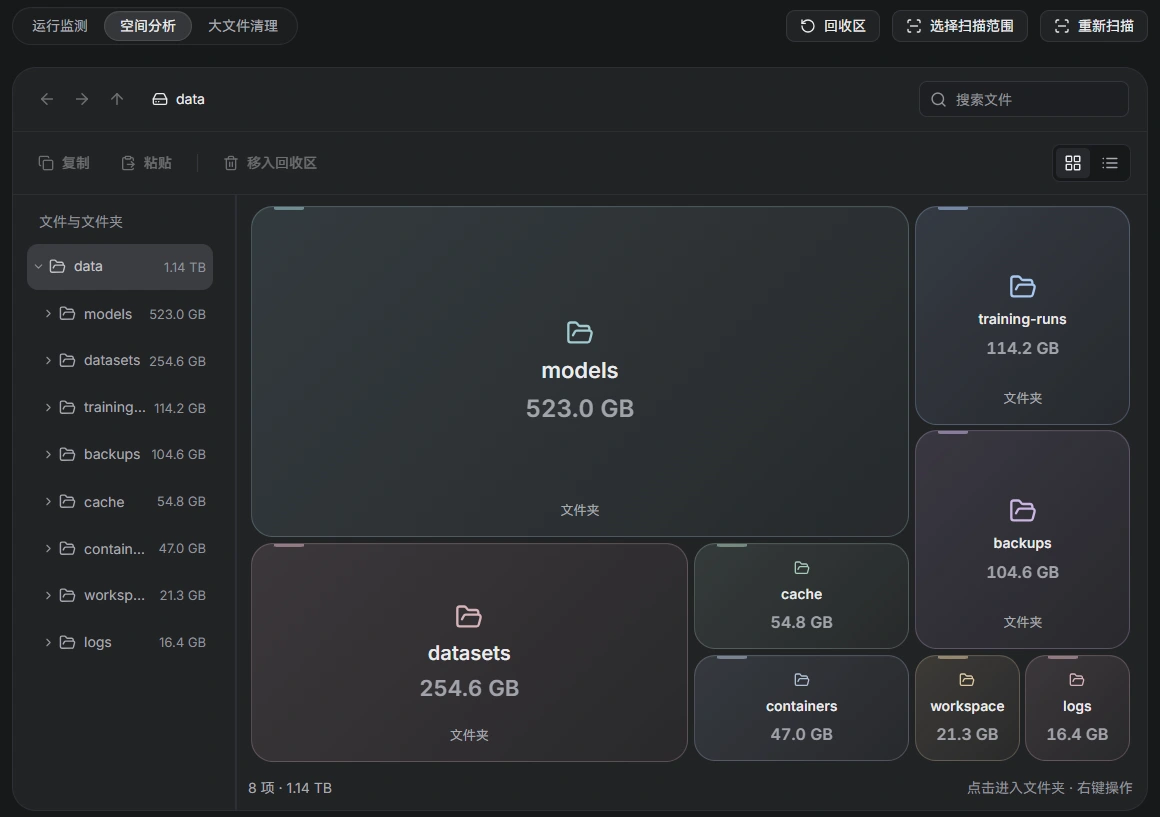
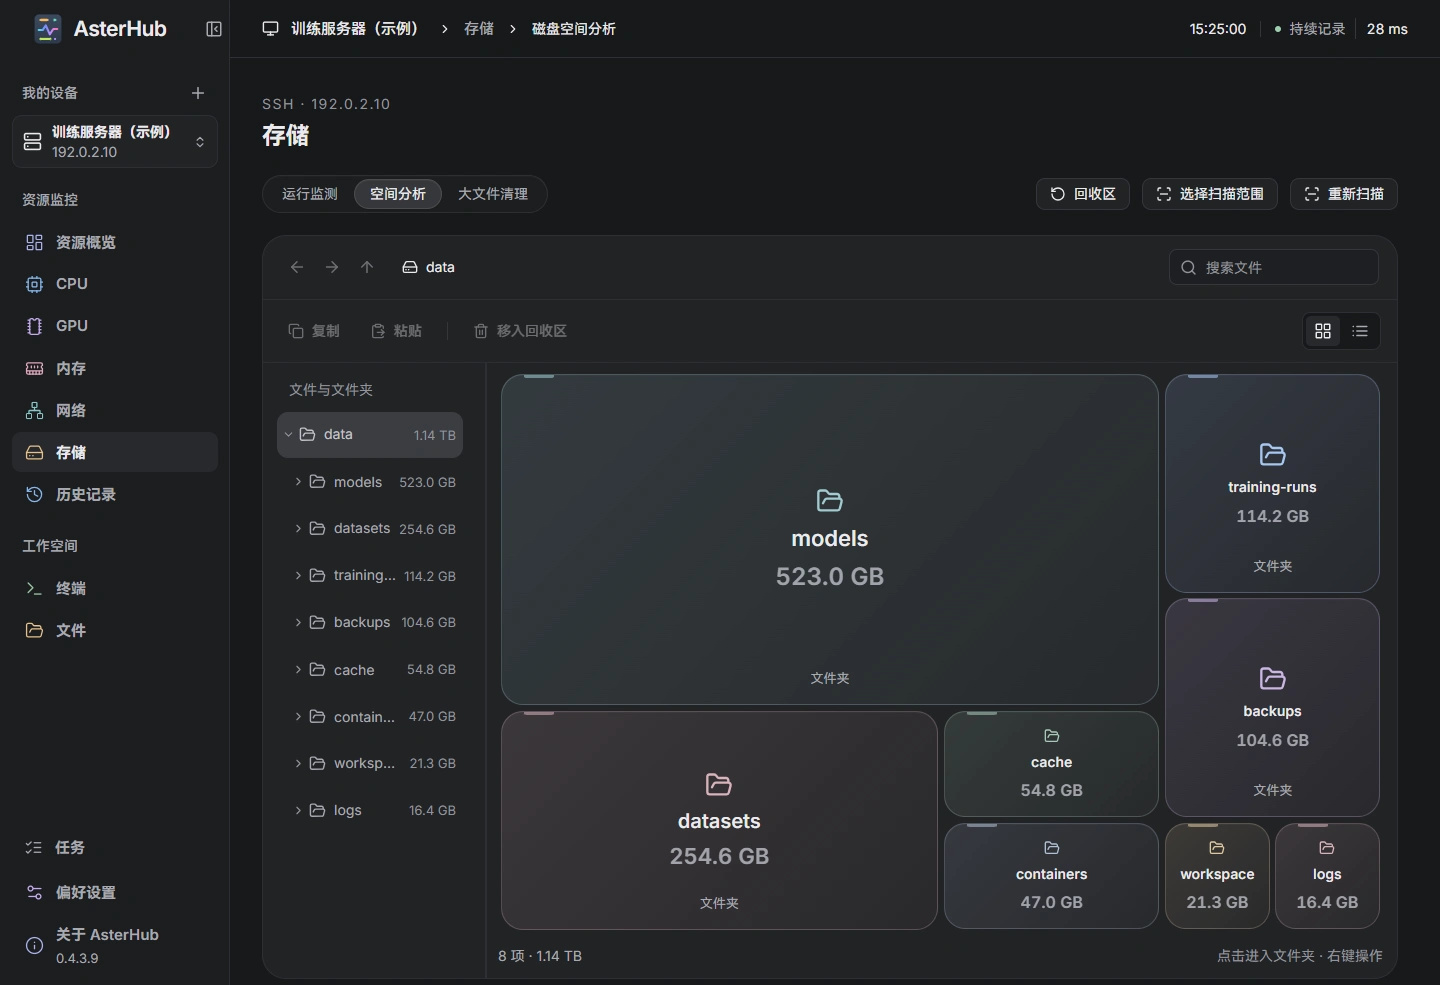
Use full AsterHub screenshots in README

diff --git a/README.md b/README.md
@@ -20,12 +20,10 @@
 
 <p align="center">
   <a href="docs/screenshots/overview.webp"><img src="docs/screenshots/overview.webp" width="760" alt="AsterHub 资源概览：在同一窗口查看 CPU、内存、网络、GPU 和存储"></a><br>
-  <sub>资源概览 · 演示设备与示例数据</sub>
+  <sub>示例数据</sub>
 </p>
 
 ## 主要功能
-
-以下界面使用示例设备和数据。点击截图可查看原尺寸。
 
 ### 排查资源峰值
 
